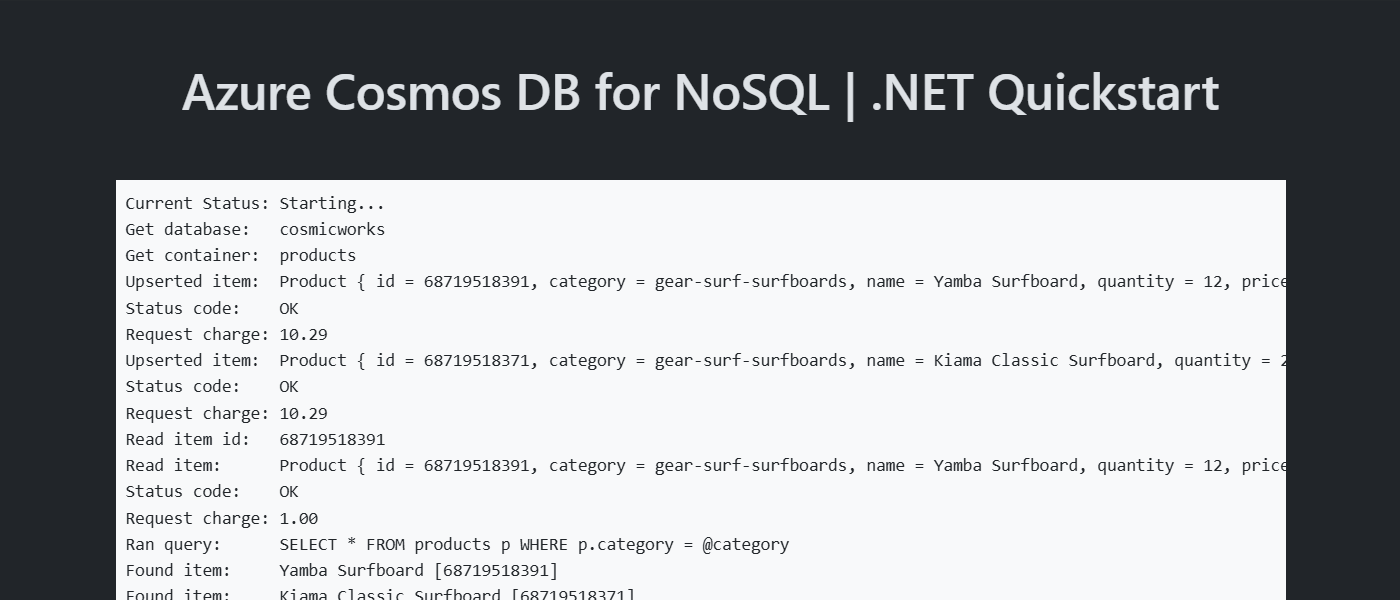
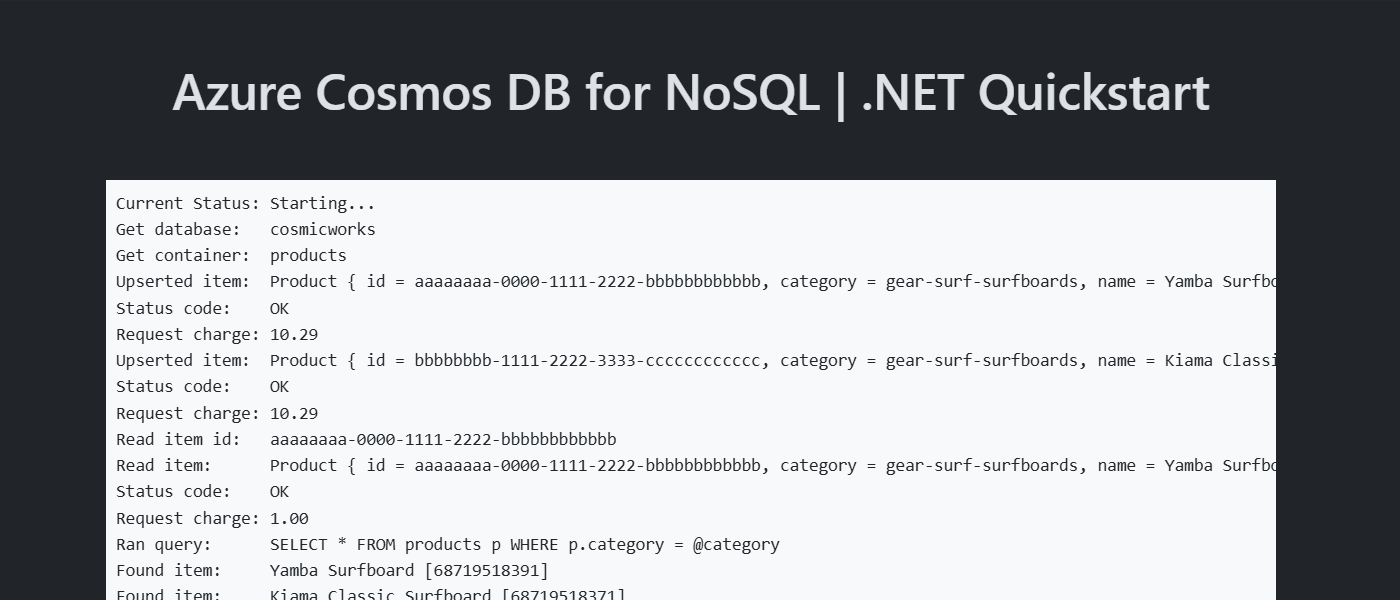
Update GUIDs

Changed region(s): [[0.0614, 0.3, 0.9214, 1.0], [0.1229, 0.12, 0.8907, 0.21]]

diff --git a/src/services/DemoService.cs b/src/services/DemoService.cs
@@ -31,7 +31,7 @@ public sealed class DemoService(
 
         {
             Product item = new(
-                id: "68719518391",
+                id: "aaaaaaaa-0000-1111-2222-bbbbbbbbbbbb",
                 category: "gear-surf-surfboards",
                 name: "Yamba Surfboard",
                 quantity: 12,
@@ -51,7 +51,7 @@ public sealed class DemoService(
 
         {
             Product item = new(
-                id: "68719518371",
+                id: "bbbbbbbb-1111-2222-3333-cccccccccccc",
                 category: "gear-surf-surfboards",
                 name: "Kiama Classic Surfboard",
                 quantity: 25,
@@ -70,7 +70,7 @@ public sealed class DemoService(
 
         {
             ItemResponse<Product> response = await container.ReadItemAsync<Product>(
-                id: "68719518391",
+                id: "aaaaaaaa-0000-1111-2222-bbbbbbbbbbbb",
                 partitionKey: new PartitionKey("gear-surf-surfboards")
             );
 
